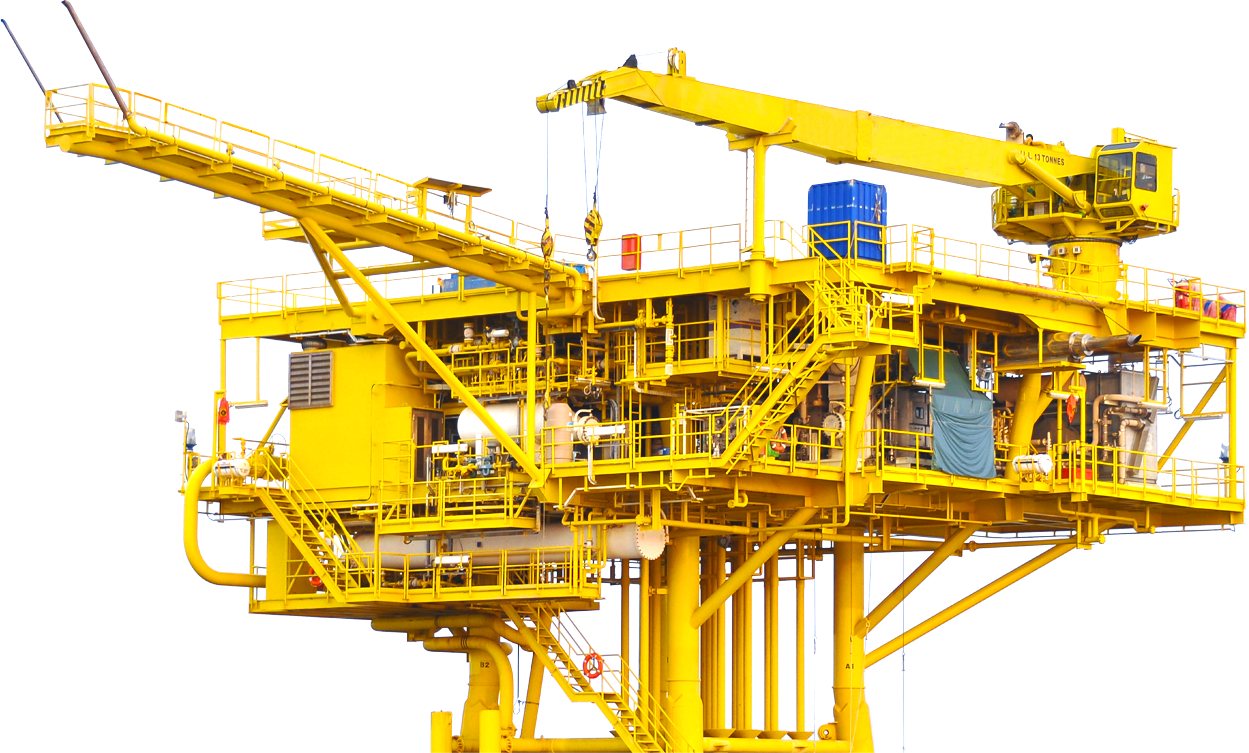
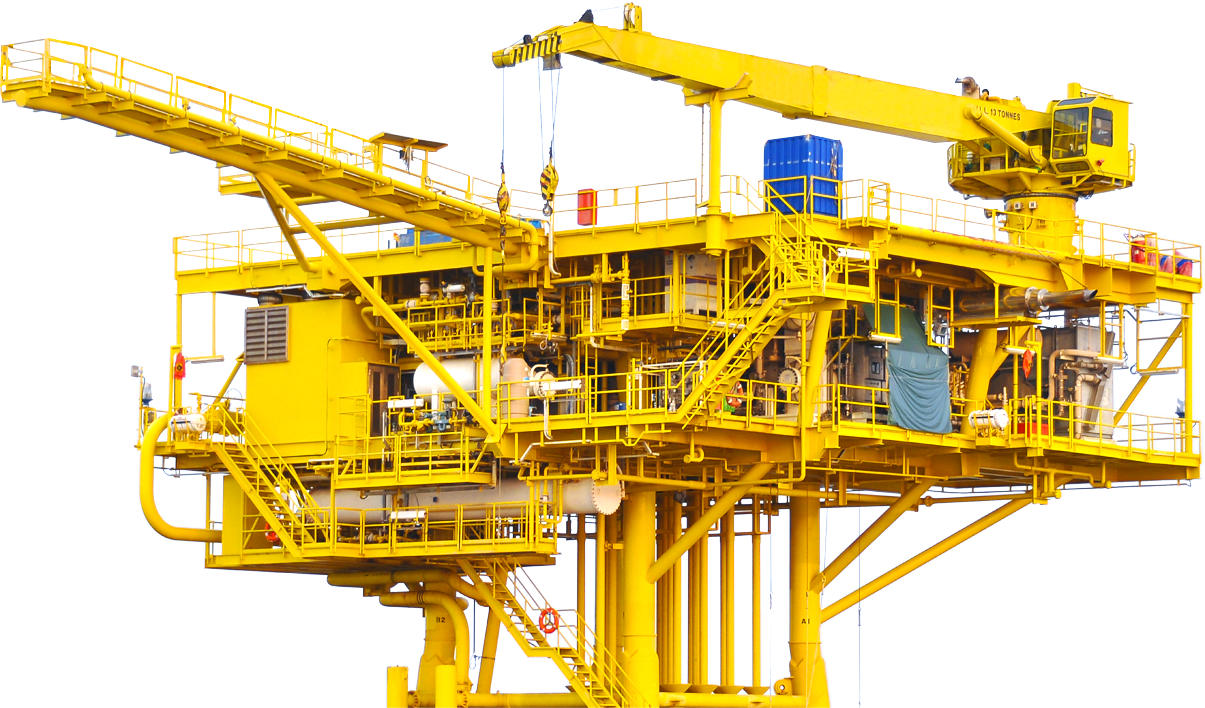
Fixed index-main

diff --git a/css/style.scss b/css/style.scss
@@ -1,7 +1,7 @@
 @import 'mixin';
 //common
 html {
-  font-size: 16px;
+  font-size: 14px;
   height: 100%;
 }
 
@@ -10,7 +10,7 @@ body {
   font-size: 16px;
   font-size: $font-16;
   color: $grey-color;
-  padding-top: 80px;
+  padding-top: 60px;
   height: 100%;
 }
 
@@ -74,17 +74,17 @@ ol, ul {
 //Navbar
 .navbar-default {
   background-color: $white;
-  .navbar-header {
-    min-height: 80px;
-  }
   .navbar-brand {
-    padding-top: 10px;
+    padding-top: 4px;
+    img {
+      width: 58px;
+    }
   }
   .navbar-nav {
     & > li > a {
       font-size: 18px;
       font-size: $font-18;
-      padding: 30px 30px 30px 0;
+      padding: 20px 30px 20px 0;
       &:focus {
         color: $grey-color;
         outline: transparent;
@@ -102,7 +102,7 @@ ol, ul {
 
 //Hamburger Icon
 .navbar-toggle {
-  margin: 27px auto;
+  margin: 18px auto;
   background: transparent;
   padding: 0;
   border: none;
@@ -258,9 +258,14 @@ ol, ul {
 
 /* pull-right on all except xs devices */
 
-@media (min-width : 1200px) and (max-width : 1600px) {
-  html{
+@media (min-width: 1200px) and (max-width: 1600px) {
+  html {
     font-size: 12px;
+  }
+}
+@media (min-width: 1600px) {
+  .slide-banner .image-banner .oil-rig{
+    bottom: -20px;
   }
 }
 @media (min-width: 1200px) {
@@ -270,7 +275,9 @@ ol, ul {
       height: 100% !important;
     }
   }
-
+  .navbar-default .navbar-brand{
+    width: 100%;
+  }
   #footer {
     position: fixed;
     width: 100%;
@@ -293,8 +300,10 @@ ol, ul {
 }
 
 @media (max-width: 767px) {
-  .navbar-default .navbar-nav > li > a {
-    padding: 10px 15px;
+  .navbar-default .navbar-nav {
+    & > li > a {
+      padding: 10px 15px;
+    }
   }
   .dropdown-menu {
     & > li {

diff --git a/css/style.css b/css/style.css
@@ -1,5 +1,5 @@
 html {
-  font-size: 16px;
+  font-size: 14px;
   height: 100%; }
 
 body {
@@ -7,7 +7,7 @@ body {
   font-size: 16px;
   font-size: 1rem;
   color: #636363;
-  padding-top: 80px;
+  padding-top: 60px;
   height: 100%; }
 
 a:focus, a:hover {
@@ -69,14 +69,14 @@ ol, ul {
 
 .navbar-default {
   background-color: #ffffff; }
-  .navbar-default .navbar-header {
-    min-height: 80px; }
   .navbar-default .navbar-brand {
-    padding-top: 10px; }
+    padding-top: 4px; }
+    .navbar-default .navbar-brand img {
+      width: 58px; }
   .navbar-default .navbar-nav > li > a {
     font-size: 18px;
     font-size: 1.125rem;
-    padding: 30px 30px 30px 0; }
+    padding: 20px 30px 20px 0; }
     .navbar-default .navbar-nav > li > a:focus {
       color: #636363;
       outline: transparent; }
@@ -87,7 +87,7 @@ ol, ul {
     background-color: transparent; }
 
 .navbar-toggle {
-  margin: 27px auto;
+  margin: 18px auto;
   background: transparent;
   padding: 0;
   border: none; }
@@ -225,11 +225,17 @@ ol, ul {
 @media (min-width: 1200px) and (max-width: 1600px) {
   html {
     font-size: 12px; } }
+@media (min-width: 1600px) {
+  .slide-banner .image-banner .oil-rig {
+    bottom: -20px; } }
 @media (min-width: 1200px) {
   .owl-carousel {
     height: 100%; }
     .owl-carousel .owl-wrapper-outer {
       height: 100% !important; }
+
+  .navbar-default .navbar-brand {
+    width: 100%; }
 
   #footer {
     position: fixed;

diff --git a/index-main.html b/index-main.html
@@ -52,7 +52,7 @@
                     </div>
                     <div class="image-banner">
                         <img src="image/oil-rig.png"
-                             class="img-responsive oil-rig col-lg-7 col-lg-offset-4 col-md-8 col-md-offset-3 col-sm-8 col-sm-offset-3 col-xs-8 col-xs-offset-3"
+                             class="img-responsive oil-rig col-lg-8 col-lg-offset-3 col-md-8 col-md-offset-3 col-sm-8 col-sm-offset-3 col-xs-8 col-xs-offset-3"
                              alt="">
                         <img src="image/bg-slide1.jpg" class="img-responsive" alt="">
                     </div>
